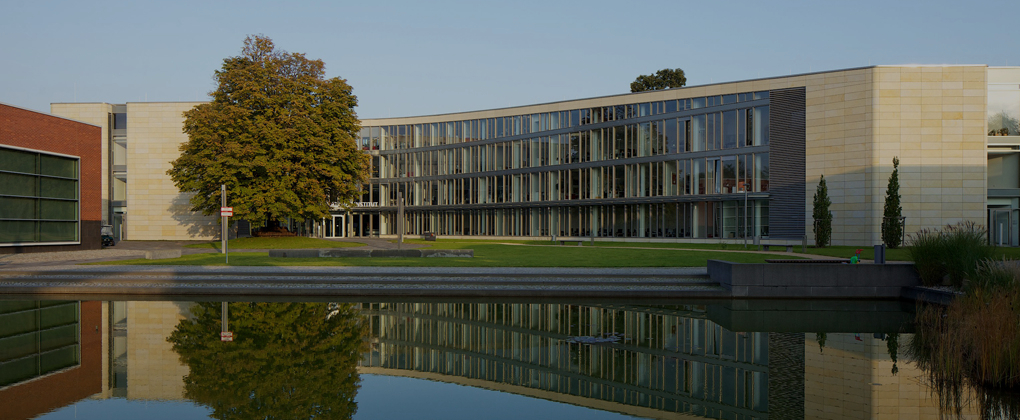
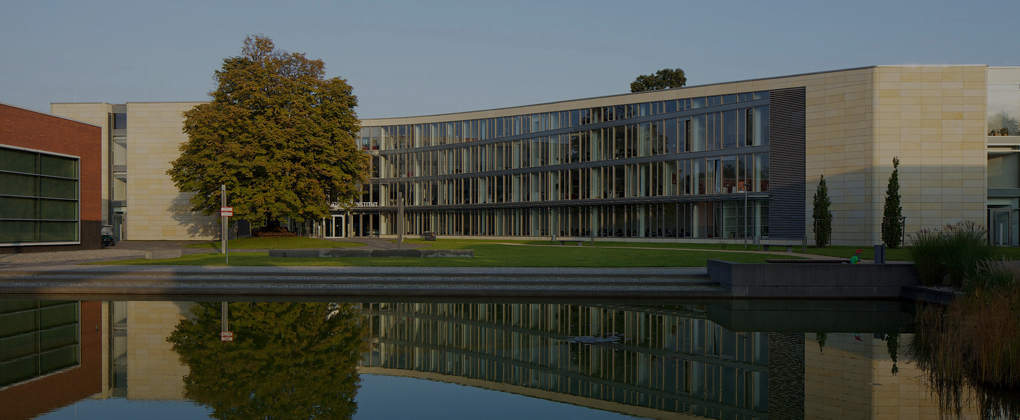
Make it a background image (WIP, still need to fix alerts)

Changed region(s): [[0.0, 0.0, 1.0, 0.5881], [0.2127, 0.4952, 0.2431, 0.5262]]

diff --git a/app/assets/stylesheets/application.css b/app/assets/stylesheets/application.css
@@ -30,14 +30,8 @@ body, footer, main, .front-section {
 }
 
 .banner {
-    position: absolute;
-    top: 50px;
-    left: 0px;
-    right: 0px;
-    width: auto;
-    height: 100%;
-    z-index: -1;
-    filter: brightness(50%);
+    background-position: center;
+    background-size: cover;
 }
 
 .m-l-1 { margin-left: 15px; }

diff --git a/app/assets/stylesheets/custom_bootstrap/custom_bootstrap.less b/app/assets/stylesheets/custom_bootstrap/custom_bootstrap.less
@@ -74,7 +74,7 @@
 @import "twitter/bootstrap/utilities.less";
 @import "twitter/bootstrap/responsive-utilities.less";
 
-body {
+body:not(.wsp-home), .wsp-home .banner.front-section {
 	padding-top: 120px;
 }
 
